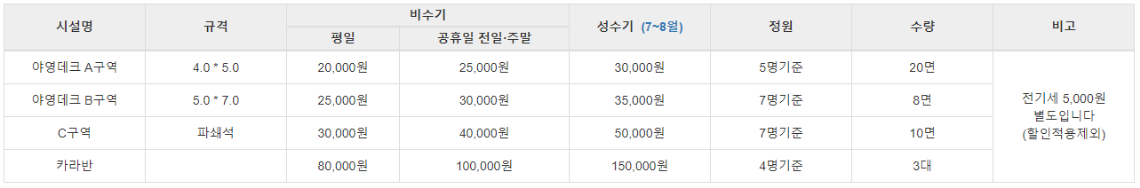
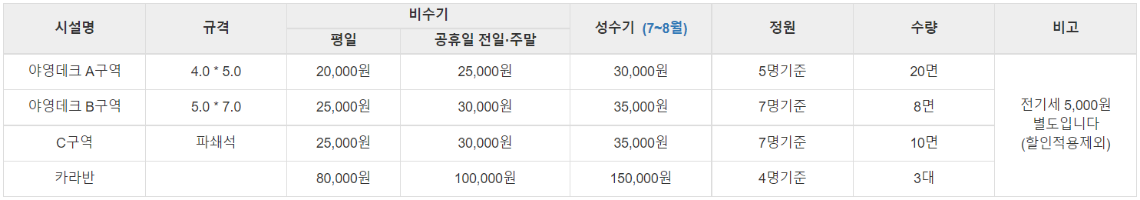
캠핑장 05-02 var 5.0.1

diff --git a/index.html b/index.html
@@ -26,6 +26,22 @@
             color:#fff;
             font-size: 18px;
         }
+        .popup_text{
+            background-color: white;
+            padding: 15px;
+            font-size: 18px;
+            width:400px;
+        }
+        .popup_text>h1{
+            padding-bottom: 20px;
+            color: #6EB283;
+            font-weight: 900;
+        }
+        .popup_text>p>span{
+            color: #6EB283;
+            font-weight: bold;
+            padding: 0px 5px;
+        }
     </style>
 
 </head>
@@ -34,8 +50,11 @@
 
     <!-- 팝업창 -->
     <div class="popup" id="popup">
-        <div class="popupimage">
-            <img src="./images/main/popup.png" alt="팝업이미지">
+        <div class="popupimage popup_text">
+            <h1 class="text-center">용두산캠핑장 안내문</h1>
+            <!-- <img src="./images/main/popup.png" alt="팝업이미지"> -->
+            <p>저희<span>용두산 캠핑장</span>을 방문에 주셔서 감사합니다.</p>
+            <p><span>제천시민</span> 은 당일 현장 주소지 확인 후( 신분증, 면허증, 여권 등 ) PG사 수수료 5%를 제외한 25%를 반환해 드립니다.</p>
         </div>
         <div class="popup_close">
             <!-- <input type="checkbox" name="chk" id="chk"> -->

diff --git a/reservation.html b/reservation.html
@@ -52,7 +52,7 @@
                         <div class="sub-nav re_nav">
                             <ul>
                                 <li><a href="./reservation.html">예약안내</a></li>
-                                <li onclick="location.href='http://booking.autopus.co.kr/calendar/v2/22917'" style="cursor: pointer;"><a href="#">예약하기</a></li>
+                                <li onclick="location.href='http://booking.autopus.co.kr/calendar/v2/22917';" style="cursor: pointer;"><a href="#">예약하기</a></li>
                                 <li onclick="alert('예약사이트 오른쪽상단에 예약조회 및 취소요청을 확인해주세요.');"><a href="#">예약확인</a></li>
                             </ul>
                         </div>

diff --git a/README.md b/README.md
@@ -49,3 +49,7 @@
  - 팝업 추가
  - 유의사항 추가
  - 예약사이트 연결
+
+ # 캠핑장 05-02 var 5.0.1
+ - 팝업 수정
+ - 가격표 수정
